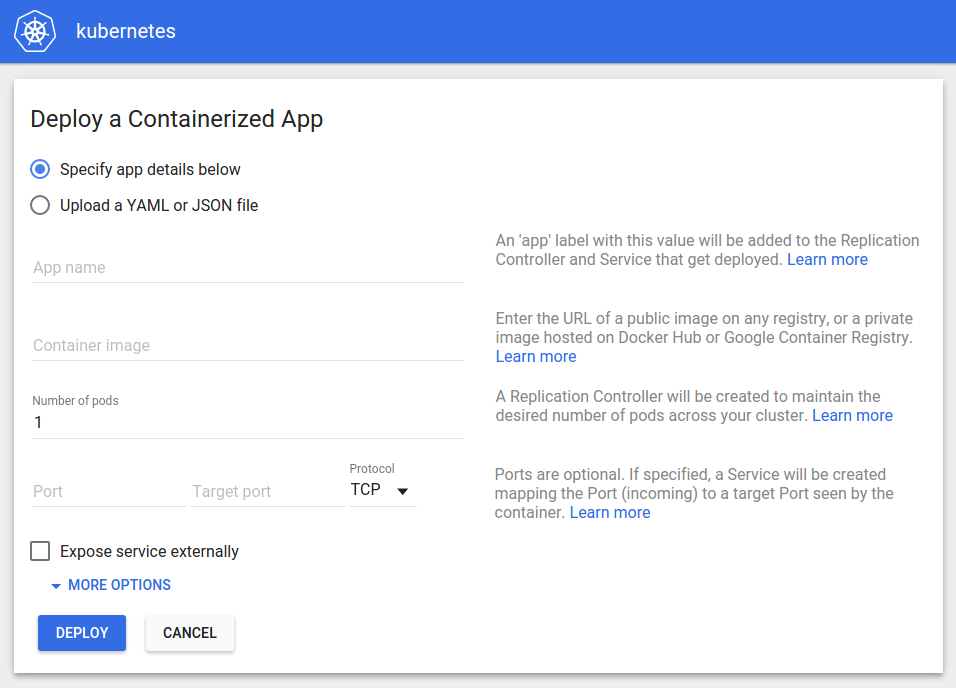
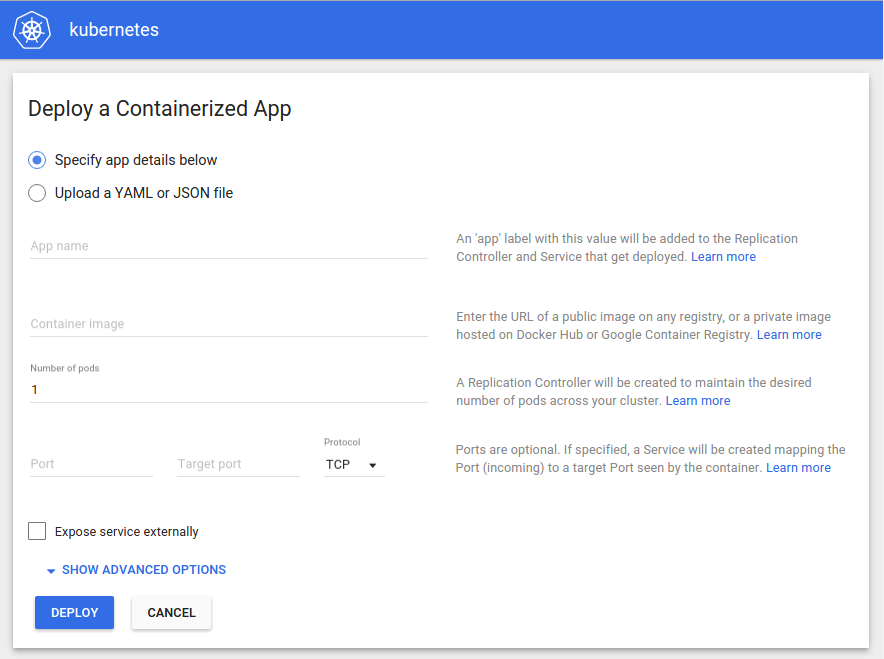
updated the Dashboard description and updated the screenshots
applied cosmetic change

diff --git a/docs/user-guide/ui.md b/docs/user-guide/ui.md
@@ -32,10 +32,10 @@ Documentation for other releases can be found at
 
 <!-- END MUNGE: UNVERSIONED_WARNING -->
 
-# Kubernetes Dashboard User Interface
+# The Kubernetes Dashboard User Interface
 
-Kubernetes has a web-based user interface that allows users to manage applications running in
-the cluster and troubleshoot them, as well as manage the cluster itself.
+Kubernetes has a web-based user interface that allows you to deploy containerized
+applications to a Kubernetes cluster, troubleshoot them, and manage the cluster itself.
 
 ## Accessing the Dashboard
 
@@ -43,8 +43,9 @@ By default, the Kubernetes Dashboard is deployed as a cluster addon. To access i
 `https://<kubernetes-master>/ui`, which redirects to
 `https://<kubernetes-master>/api/v1/proxy/namespaces/kube-system/services/kubernetes-dashboard`.
 
-If you find that you're not able to access the Dashboard, it may be because the kubernetes-dashboard
-service has not been started on your cluster. In that case, you can start it manually with:
+If you find that you're not able to access the Dashboard, it may be because the
+`kubernetes-dashboard` service has not been started on your cluster. In that case,
+you can start it manually as follows:
 
 ```sh
 kubectl create -f cluster/addons/dashboard/dashboard-controller.yaml --namespace=kube-system
@@ -56,50 +57,112 @@ Normally, this should be taken care of automatically by the
 script that runs on the master. Release notes and development versions of the Dashboard can be
 found at https://github.com/kubernetes/dashboard/releases.
 
-## Overview
+## Using the Dashboard
 
-The Dashboard can be used to provide an overview of applications running on the cluster and provide
-information on any errors that have occurred. You can also inspect your replication controllers and
-corresponding services, change the number of replicas and deploy new applications using a wizard.
+The Dashboard can be used to get an overview of applications running on the cluster, and to provide information on any errors that have occurred. You can also inspect your replication controllers and corresponding services, change the number of replicated Pods, and deploy new applications using a deploy wizard.
 
-### Using the Dashboard
+When accessing the Dashboard on an empty cluster for the first time, the Welcome page is displayed. This page contains a link to this document as well as a button to deploy your first application.
 
-When first accessing the dashboard on an empty cluster, you should see the welcome page.
-This contains some useful links to the documentation, and a big button to deploy your first
-application.
 ![Kubernetes Dashboard welcome page](ui-dashboard-zerostate.png)
 
 ### Deploying applications
 
-The Kubernetes Dashboard lets you create and deploy a Replication Controller with a simple wizard.
-You can simply provide the name for your application, the name of a Docker container (commonly
-hosted on the Google Container Registry or Docker Hub) and the target number of Pods you want deployed.
-Optionally, if your container listens on a port, you can also provide a port and target port. The
-wizard will create a corresponding Kubernetes Service which will route to your deployed Pods.
+The Dashboard lets you create and deploy a containerized application as a Replication Controller with a simple wizard:
 
 ![Kubernetes Dashboard deploy form](ui-dashboard-deploy-simple.png)
 
-If needed, you can expand the "more options" section where you can change more advanced settings,
-such as the Kubernetes namespace that the resulting Pods run in, image pull secrets for private
-registries, resource limits, container entrypoint and privileged status.
+#### Specifying application details
+
+The wizard expects that you provide the following information:
+
+- **App name** (mandatory): Name for your application. A [label](http://kubernetes.io/v1.1/docs/user-guide/labels.html) with the name will be added to the Replication Controller and Service, if any, that will be deployed.
+
+  The application name must be unique within the selected Kubernetes namespace. It must start with a lowercase character, and contain only lowercase letters, numbers and dashes (-). It is limited to 24 characters.
+
+- **Container image** (mandatory): The URL of a public Docker [container image](http://kubernetes.io/v1.1/docs/user-guide/images.html) on any registry, or a private image (commonly hosted on the Google Container Registry or Docker Hub).
+
+- **Number of pods** (mandatory): The target number of Pods you want your application to be deployed in. The value must be a positive integer.
+
+  A [Replication Controller](http://kubernetes.io/v1.1/docs/user-guide/replication-controller.html) will be created to maintain the desired number of Pods across your cluster.
+
+- **Ports** (optional): If your container listens on a port, you can provide a port and target port. The wizard will create a corresponding Kubernetes [Service](http://kubernetes.io/v1.1/docs/user-guide/services.html) which will route to your deployed Pods. Supported protocols are TCP and UDP. In case you specify ports, the internal DNS name for this Service will be the value you specified as application name above.
+
+  Be aware that if you specify ports, you need to provide both port and target port.
+
+- For some parts of your application (e.g. frontends), you can expose the Service onto an external, maybe public IP address by selecting the **Expose service externally** option. You may need to open up one or more ports to do so. Find more details [here](http://kubernetes.io/v1.1/docs/user-guide/services-firewalls.html).
+
+If needed, you can expand the **Advanced options** section where you can specify more settings:
 
 ![Kubernetes Dashboard deploy form advanced options](ui-dashboard-deploy-more.png)
 
-#### Applications view
+- **Description**: The text you enter here will be added as an [annotation](http://kubernetes.io/v1.1/docs/user-guide/annotations.html) to the Replication Controller and displayed in the application's details.
 
-If some applications are running on your cluster, the Dashboard will default to showing an overview.
-Individual applications are shown as cards - where an application is defined as a Replication Controller
-and its corresponding services. Each card shows the current number of replicas running and desired,
-along with any errors reported by Kubernetes. You can also view logs, make quick changes to the number
-of replicas or delete the application directly from the menu in the cards' corner.
+- **Labels**: Default [labels](http://kubernetes.io/v1.1/docs/user-guide/labels.html) to be used for your application are application name and version. You can specify additional labels to be applied to the Replication Controller, Service (if any), and Pods, such as release, environment, tier, partition, and release track.
+
+  Example:
+
+  ```
+release=1.0
+tier=frontend
+environment=pod
+track=stable
+```
+
+- **Kubernetes namespace**: Kubernetes supports multiple virtual clusters backed by the same physical cluster. These virtual clusters are called [namespaces](http://kubernetes.io/v1.1/docs/admin/namespaces.html). They let you partition resources into logically named groups.
+
+  The Dashboard offers all available namespaces in a dropdown list and allows you to create a new namespace. The namespace name may contain alphanumeric characters and dashes (-).
+
+- **Image pull secrets**: In case the Docker container image is private, it may require [pull secret](http://kubernetes.io/v1.1/docs/user-guide/secrets.html) credentials.
+
+  The Dashboard offers all available secrets in a dropdown list, and allows you to create a new secret. The secret name must follow the DNS domain name syntax, e.g. `new.image-pull.secret`. The content of a secret must be base24-encoded and specified in a  [`.dockercfg`](http://kubernetes.io/v1.1/docs/user-guide/images.html#specifying-imagepullsecrets-on-a-pod) file.
+
+- **CPU requirement** and **Memory requirement**: You can specify the minimum [resource limits](http://kubernetes.io/v1.1/docs/admin/limitrange/README.html) for the container. By default, Pods run with unbounded CPU and memory limits.
+
+- **Run command** and **Run command arguments**: By default, your containers run the selected Docker image's default [entrypoint command](http://kubernetes.io/v1.1/docs/user-guide/containers.html/containers-and-commands). You can use the command options and arguments to override the default.
+
+- **Run as privileged**: This setting determines whether processes in [privileged containers](http://kubernetes.io/v1.1/docs/user-guide/pods.html#privileged-mode-for-pod-containers) are equivalent to processes running as root on the host. Privileged containers can make use of capabilities like manipulating the network stack and accessing devices.
+
+- **Environment variables**: Kubernetes exposes Services through [environment variables](http://kubernetes.io/v1.1/design/expansion.html). You can compose environment variable or pass arguments to your commands using the values of environnment variables. They can be used in applications to find a Service. Environment variables are also useful for decreasing coupling and the use of workarounds. Values can reference other variables using the `$(VAR_NAME)` syntax.
+
+#### Uploading a YAML or JSON file
+
+Kubernetes supports declarative configuration. In this style, all configuration is stored in YAML or JSON configuration files using the Kubernetes' [API](http://kubernetes.io/v1.1/docs/api.html) resource schemas as the configuration schemas.
+
+As an alternative to specifying application details in the deploy wizard, you can define your Replication Controllers and Services in YAML or JSON files, and upload the files to your Pods:
+
+![Kubernetes Dashboard deploy from file upload](ui-dashboard-deploy-file.png)
+
+### Applications view
+
+As soon as applications are running on your cluster, the initial view of the Dashboard defaults to showing an overview of them, for example:
 
 ![Kubernetes Dashboard applications view](ui-dashboard-rcs.png)
 
-Clicking "View details" from the card menu will take you to the following screen, where you
-can view more information about the Pods that make up your application. The events tab can be useful
-in debugging flapping applications.
+Individual applications are shown as cards - where an application is defined as a Replication Controller and its corresponding Services. Each card shows the current number of running and desired replicas, along with errors reported by Kubernetes, if any.
+
+You can view application details (**View details**), make quick changes to the number of replicas (**Edit pod count**) or delete the application directly (**Delete**) from the menu in each card's corner:
+
+![Kubernetes Dashboard deploy form file upload](ui-dashboard-cards-menu.png)
+
+#### View details
+
+Selecting this option from the card menu will take you to the following page where you can view more information about the Pods that make up your application:
 
 ![Kubernetes Dashboard application detail](ui-dashboard-rcs-detail.png)
+
+The **EVENTS** tab can be useful for debugging flapping applications.
+
+Clicking the plus sign in the right corner of the screen leads you back to the page for deploying a new application.
+
+#### Edit pod count
+
+If you choose to change the number of Pods, the respective Replication Controller will be updated to reflect the newly specified number.
+
+#### Delete
+
+Deleting a Replication Controller also deletes the Pods managed by it. It is currently not supported to leave the Pods running.
+
+You have the option to also delete Services related to the Replication Controller if the label selector targets only the Replication Controller to be deleted.
 
 ## More Information
 
